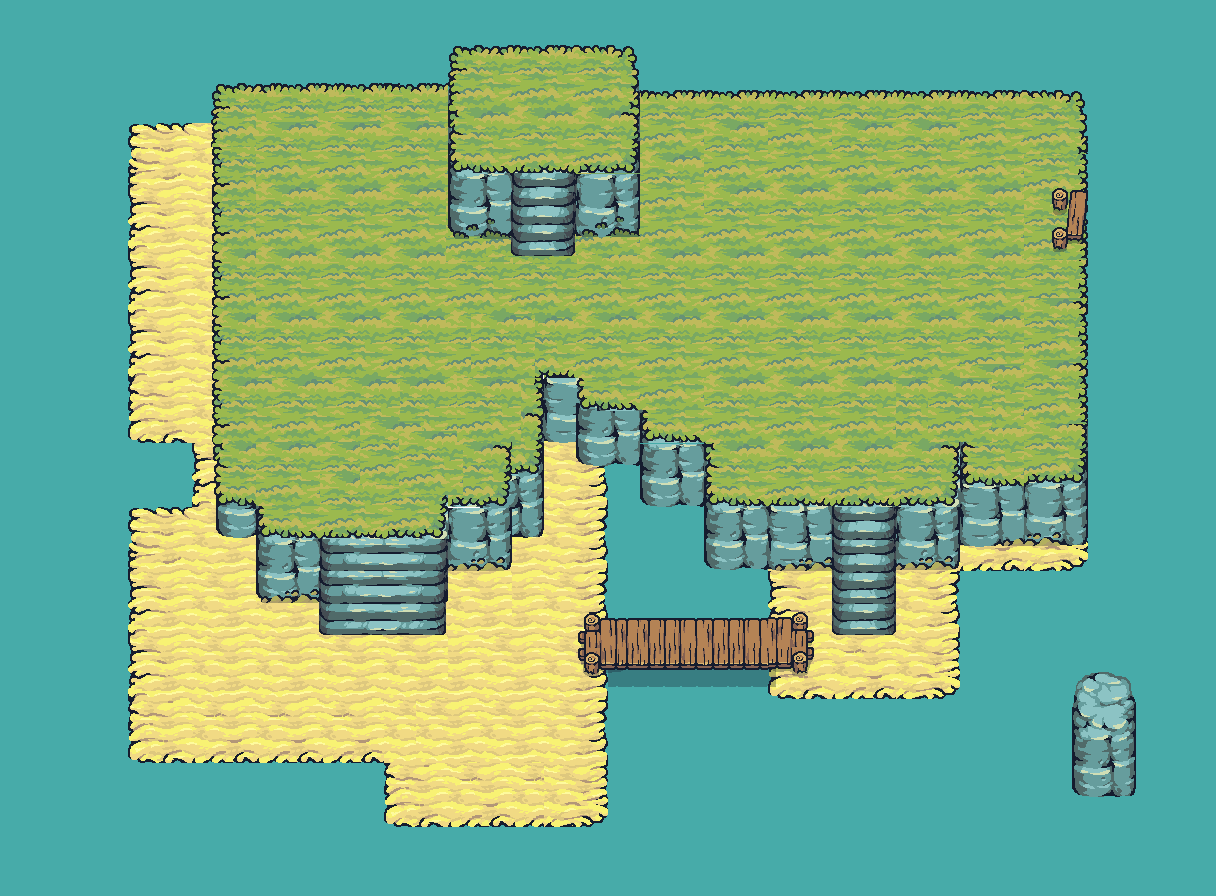
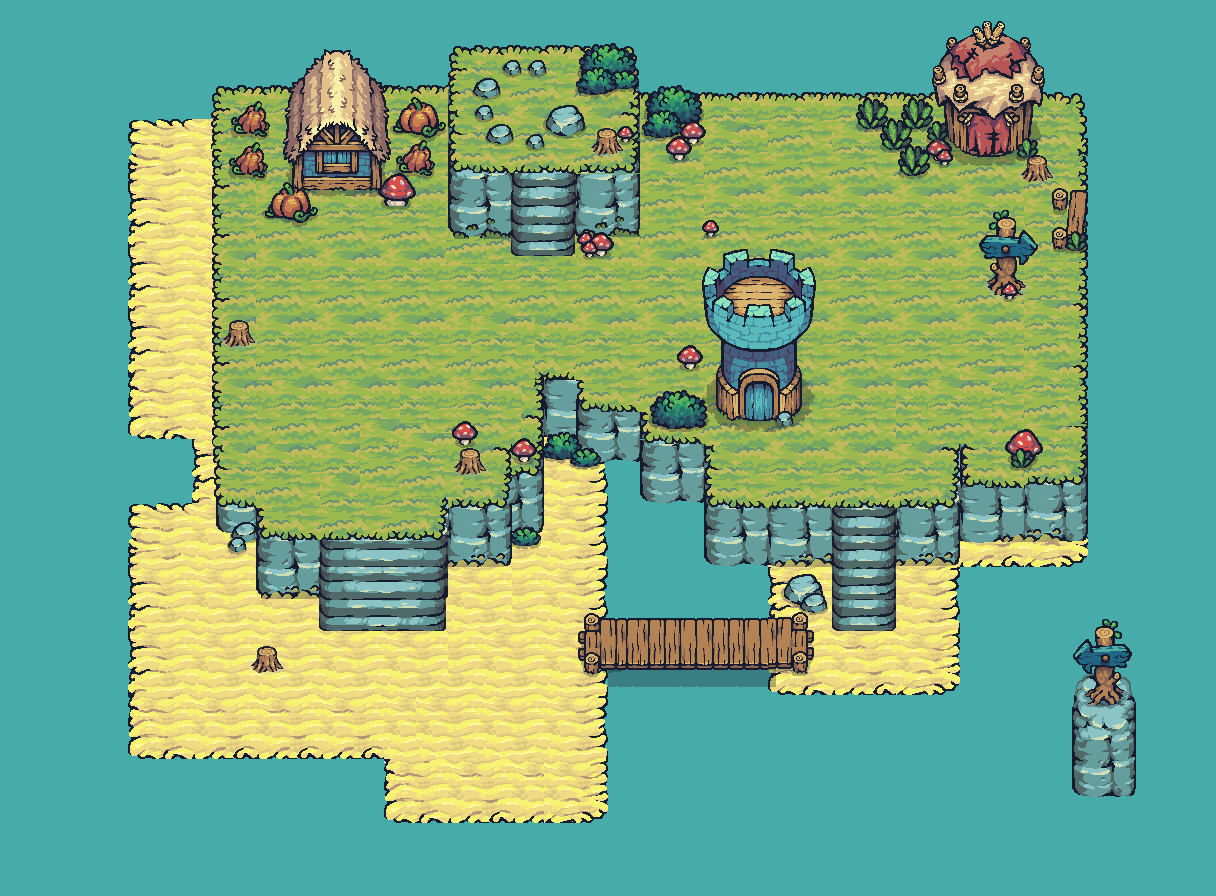
map version 2

Changed region(s): [[0.0938, 0.0312, 0.9062, 0.9375], [0.875, 0.6875, 0.9375, 0.8125]]

diff --git a/beat-the-goblin/src/app/page.tsx b/beat-the-goblin/src/app/page.tsx
@@ -201,9 +201,33 @@ export default function Home() {
             <Image
               src="/assets/map/map.png"
               alt="game's map"
-              width={800}
-              height={600}
+              width={850}
+              height={650}
             />
+            <div className={styles.rockinthewater}>
+              <Image
+                src="/assets/map/water/Rocks_03.gif"
+                alt="Rock in the water"
+                width={100}
+                height={100}
+              />
+            </div>
+            <div className={styles.sheepinsand}>
+              <Image
+                src="/assets/map/decors/HappySheep_Idle.gif"
+                alt="sheep in sand"
+                width={100}
+                height={100}
+              />
+            </div>
+            <div className={styles.tree1}>
+              <Image
+                src="/assets/map/decors/Tree1.gif"
+                alt="Tree1"
+                width={100}
+                height={100}
+              />
+            </div>
           </div>
         </section>
 
